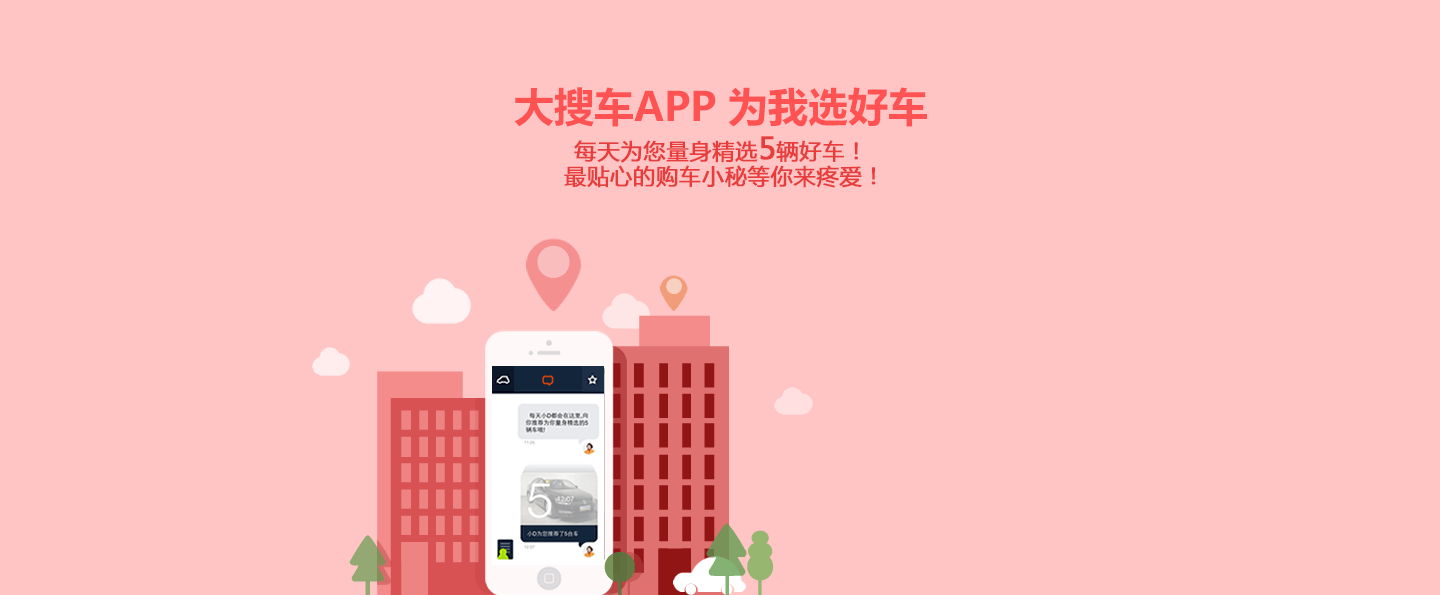
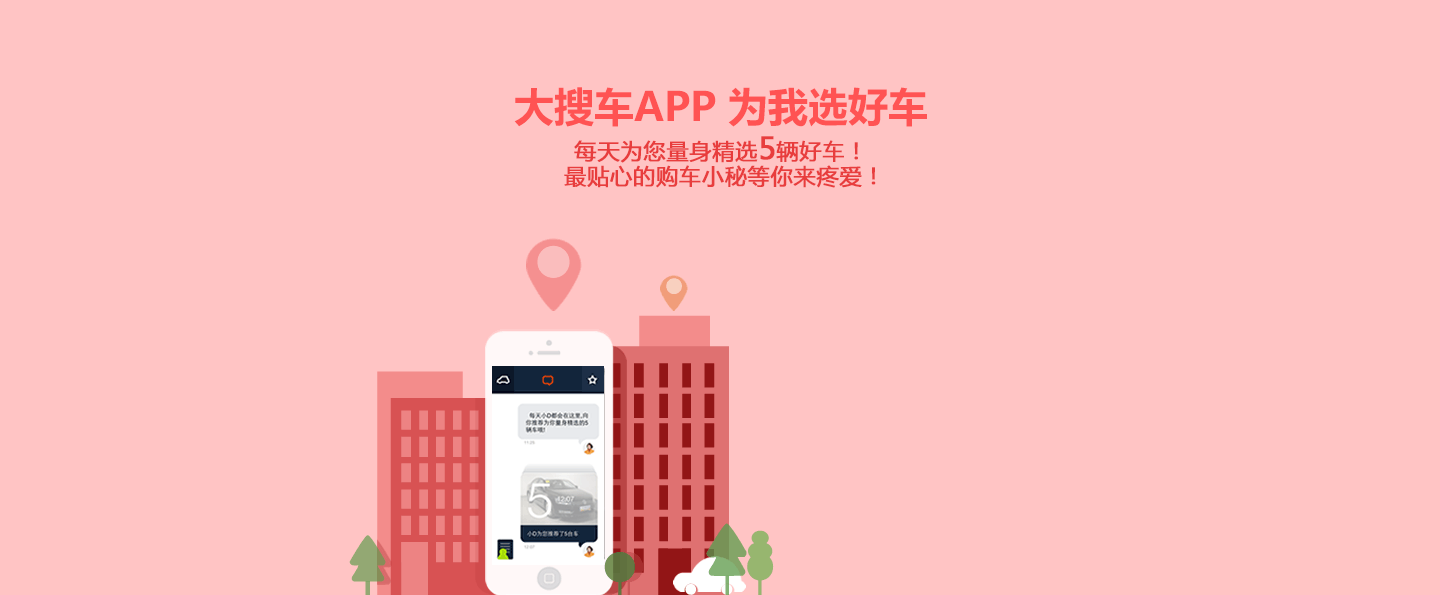
app-web.html

diff --git a/demo/zilong/app-web.html b/demo/zilong/app-web.html
@@ -64,6 +64,10 @@
     <div id="content-1">
         <div class="wrapper-1440">
             <img src="../../assets/images/app/buy/w-1.png">
+            <div class="cloud cloud-1"></div>
+            <div class="cloud cloud-2"></div>
+            <div class="cloud cloud-3"></div>
+            <div class="cloud cloud-4"></div>
             <img id='erwei' src="../../assets/images/app/buy/erwei-code.png">
             <img id='android' src="../../assets/images/app/buy/android-download.png">
             <img id='ios' src="../../assets/images/app/buy/iso-download.png">
@@ -74,7 +78,7 @@
     <div id="content-2">
         <div class="wrapper-1440">
             <img src="../../assets/images/app/buy/w-2.png">
-            <img id="shushu" src="../../assets/images/app/buy/shushu.png">
+            <img id="shushu" src="../../assets/images/app/buy/shushu.gif">
         </div>
     </div>
 
@@ -160,7 +164,7 @@
 
     <script>
         $(function() {
-                    var defaultDist = $(window).height() * 0.7;
+                    var defaultDist = Math.min($(window).height() * 0.6,400);
                     var elems = ['#content-3', '#content-4', '#content-5'];
 
                     function c1() {
@@ -190,8 +194,28 @@
                     for (var i = 0; i < elems.length; i++) {
                         Souche.Util.appear(elems[i], funcs[i], defaultDist);
                     }
+
+
+
                 }
         )
+        var clouds = $('.cloud');
+        var rand = Math.random;
+        !function cloudFloat(){
+            var index = 0;
+            function next(){
+                index++;
+                if(index ==4){
+                    cloudFloat();
+                }
+            }
+            clouds.each(function(){
+                        $(this).velocity(
+                                {left:'+='+(rand()*60-30)},
+                                {delay: 2000, duration: 2500,complete:next}
+                        )}
+            )
+        }()
 
     </script>
 

diff --git a/assets/css/app/buy.css b/assets/css/app/buy.css
@@ -118,3 +118,33 @@ img{
     position: absolute;
     display: none;
 }
+.cloud{
+    background: url('../../images/app/buy/cloud.png') no-repeat;
+    background-size: 100%;
+    position: absolute;
+}
+.cloud-1{
+    width:59px;
+    height: 46px;
+    top: 270px;
+    left: 430px;
+}
+.cloud-2{
+    width:52px;
+    height: 40px;
+    top: 285px;
+    left: 610px;
+}
+.cloud-3{
+    width:32px;
+    height: 24px;
+    top: 350px;
+    left: 320px;
+}
+.cloud-4{
+    width:32px;
+    height: 46px;
+    opacity: 0.8;
+    top: 380px;
+    left: 750px;
+}
